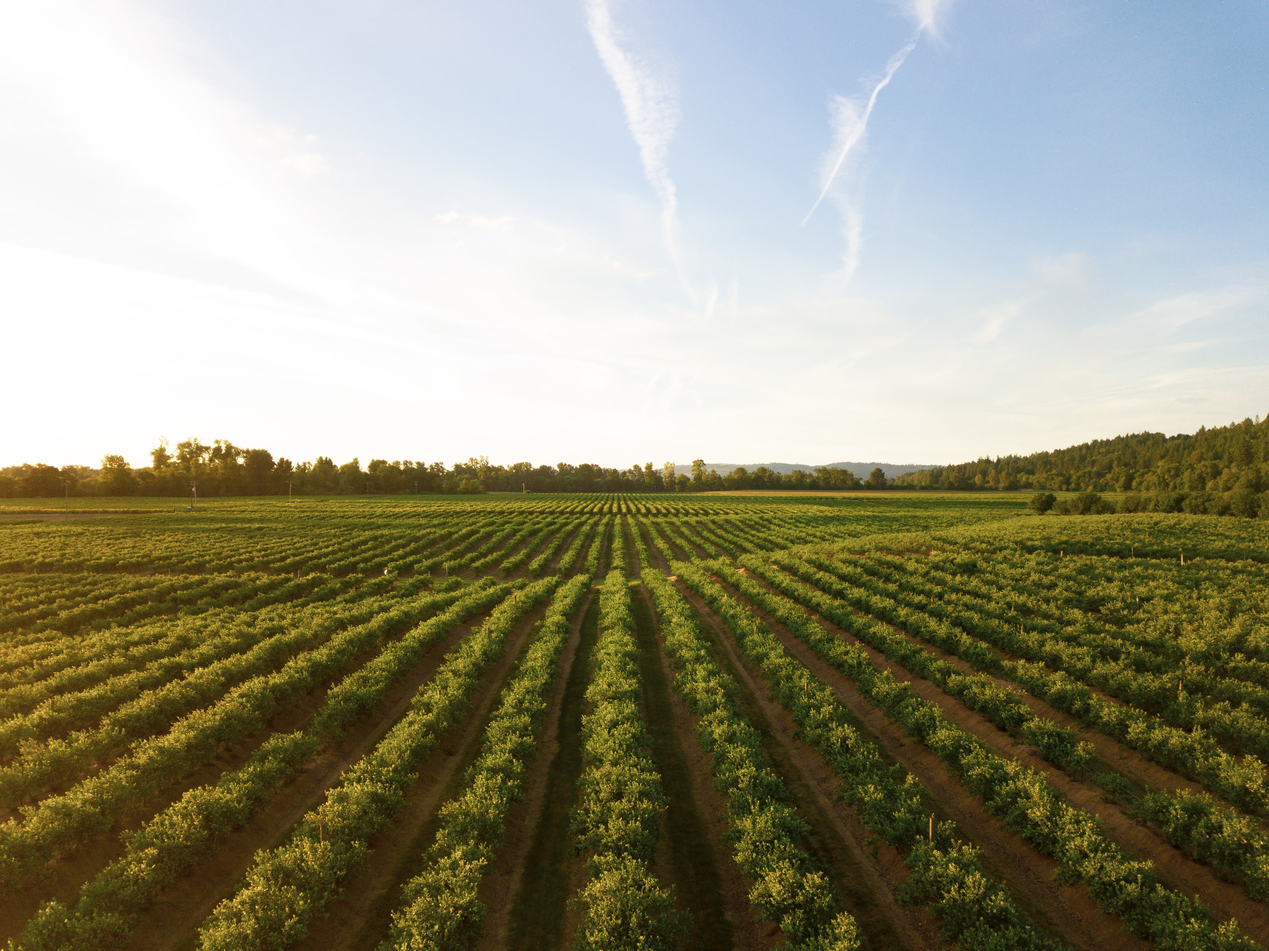
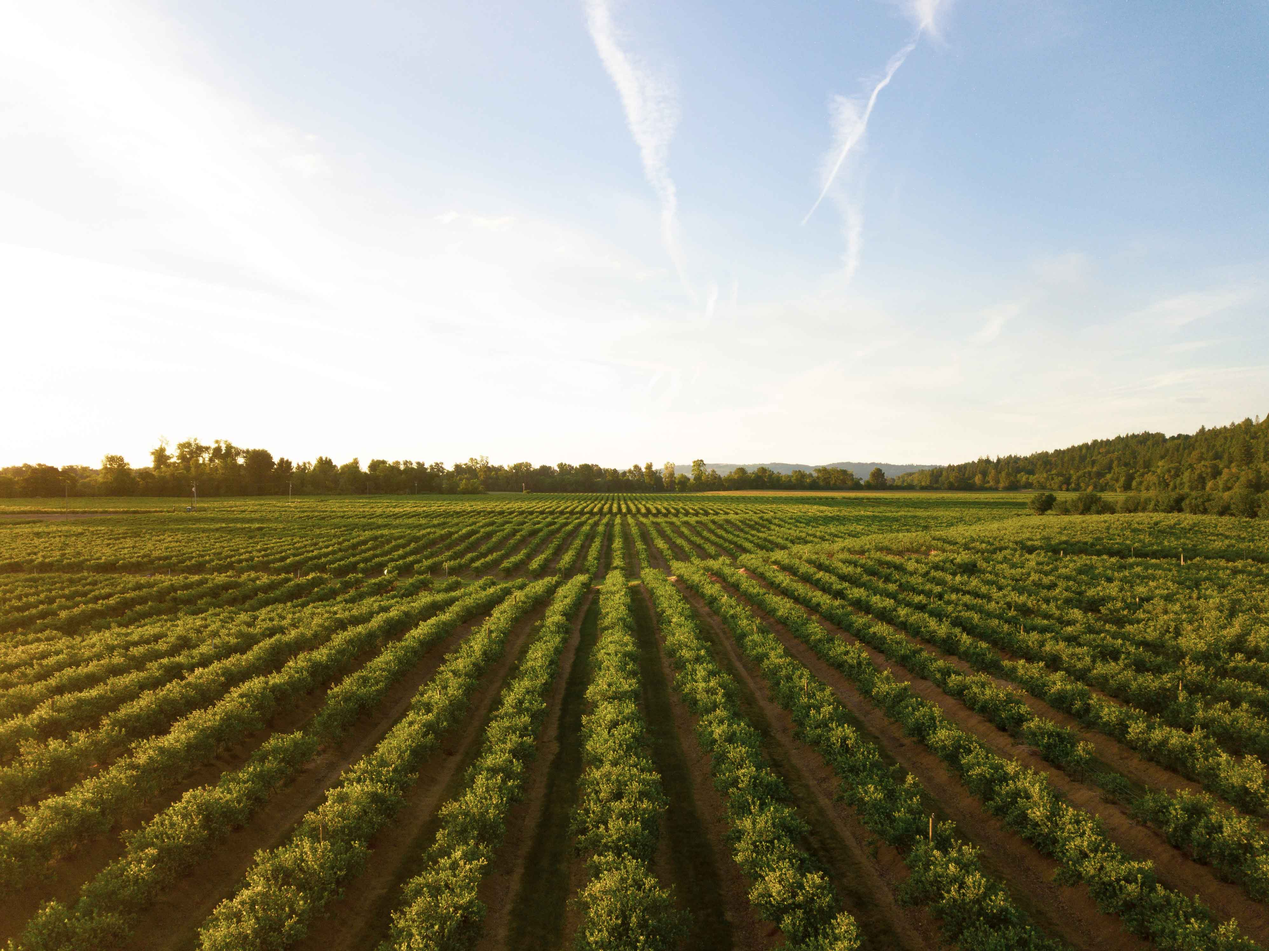
変更

diff --git a/index.html b/index.html
@@ -18,7 +18,7 @@
 </head>
 
 <body>
-        <div class="hero"><img src="images/hero.png" alt="海の近くのきれいな街とワイン"></div>
+        <div class="hero"><img src="images/hero.jpg" alt="海の近くのきれいな街とワイン"></div>
         <header>
             <div class="wrapper gflex">
                 <h1>Vineyard</h1>
@@ -92,21 +92,21 @@
 
     <section class="quality">
         <div class="flex">
-            <img src="images/hinsyu.png" alt="両手いっぱいのブルーベリー">
+            <img src="images/hinsyu.jpg" alt="両手いっぱいのブルーベリー">
             <div class="sentence">
                 <h2>こだわりぬいた品種</h2>
                 <p>同じ畑から採れた同品種のぶどうでワインを作っても今年のものと翌年のものとで全く風味が変わってしまうことがあるのもワインの魅力です。来年にはもう出会えなかもしれないと心を込めて作っています。</p>
             </div><!-- sentenceここまで -->
         </div><!-- flexここまで -->
         <div class="flex">
-            <img src="images/winecellar.png" alt="地下ワインセラー">
+            <img src="images/winecellar.jpg" alt="地下ワインセラー">
             <div class="sentence">
                 <h2>徹底した温度/湿度管理</h2>
                 <p>全てのワインを当社の地下貯蔵庫で管理しています。ワインの保存で最も重要なのは一定の温度/湿度を保つこと。一般的に温度は12℃～15℃、湿度は70%～80%が理想的です。この温度/湿度を維持することでコルクの乾燥を防ぎ、ワインの品質を守っています。</p>
             </div><!-- sentenceここまで -->
         </div><!-- flexここまで -->
         <div class="flex">
-            <img src="images/drink.png" alt="数人でワインを乾杯している様子">
+            <img src="images/drink.jpg" alt="数人でワインを乾杯している様子">
             <div class="sentence">
                 <h2>ダミーテキスト</h2>
                 <p>ダミーテキストダミーテキストダミーテキストダミーテキストダミーテキストダミーテキストダミーテキストダミーテキストダミーテキストダミーテキストダミーテキストダミーテキストダミーテキストダミーテキストダミーテキストダミーテキスト</p>
